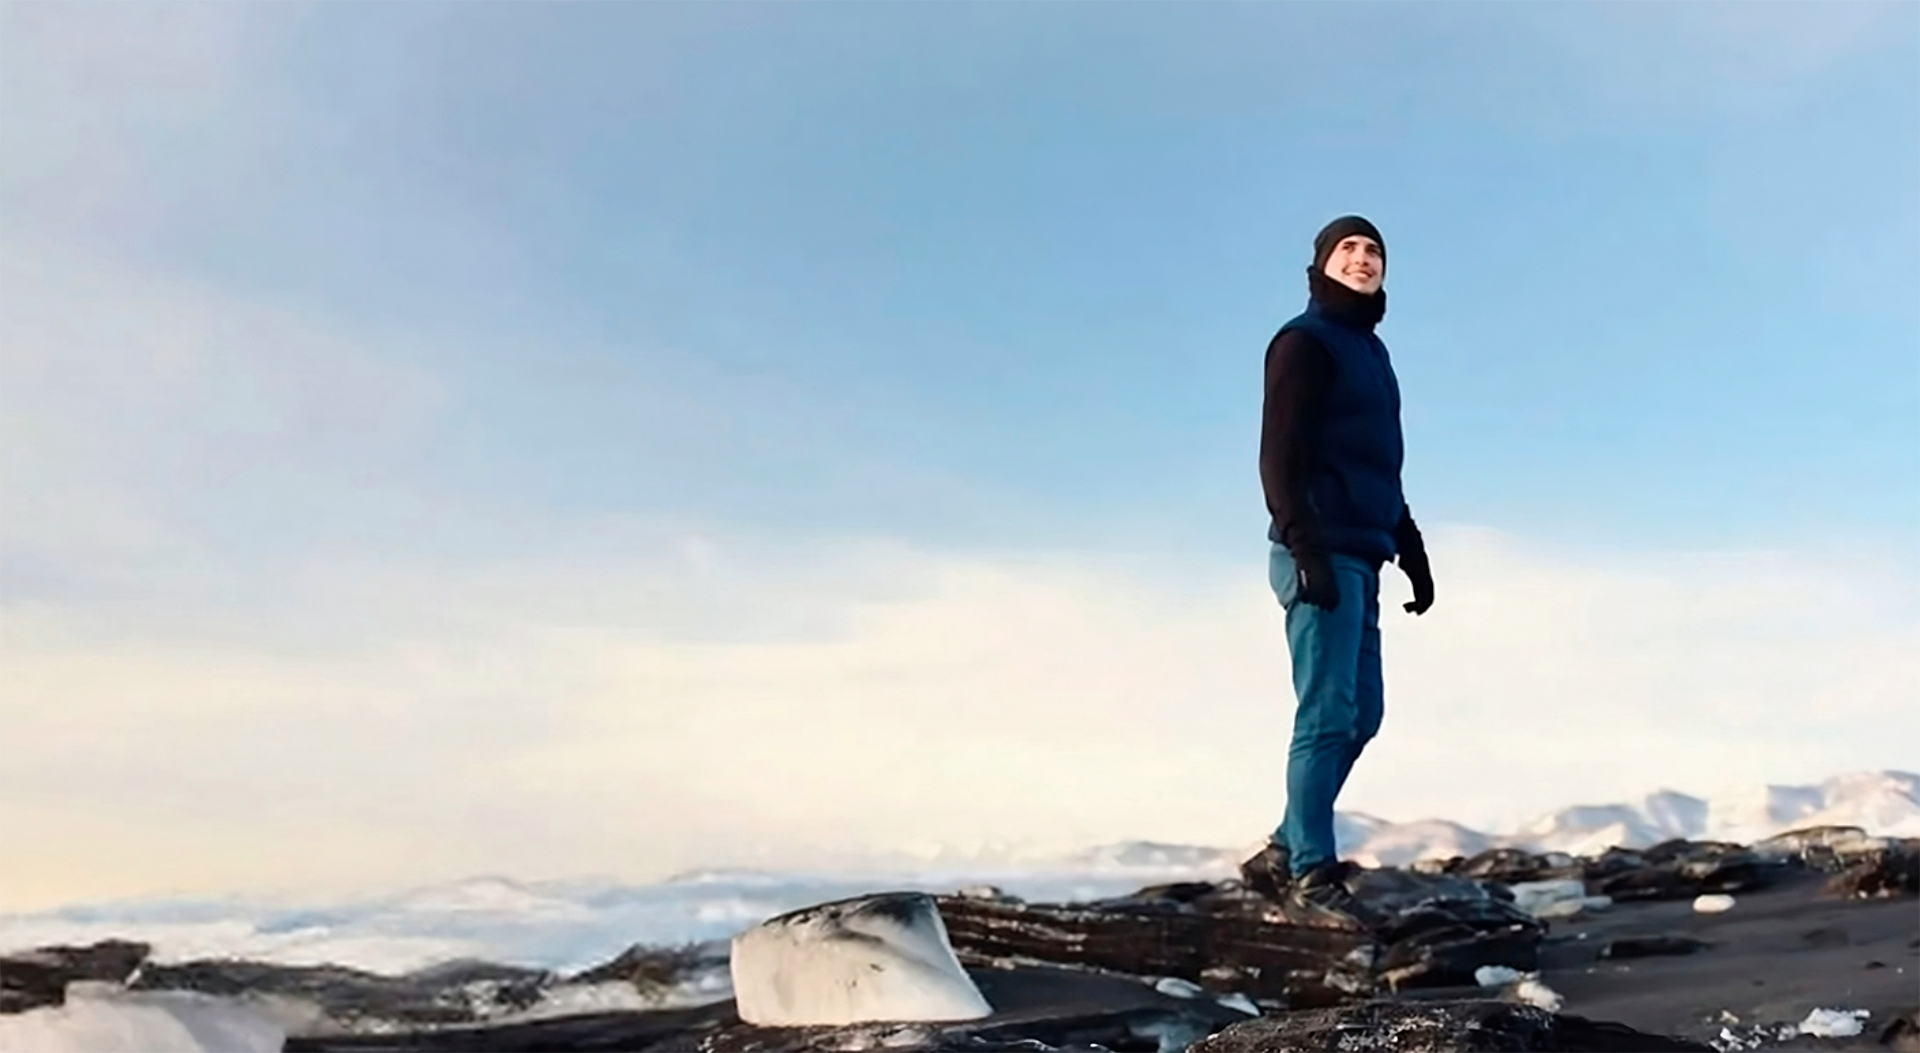
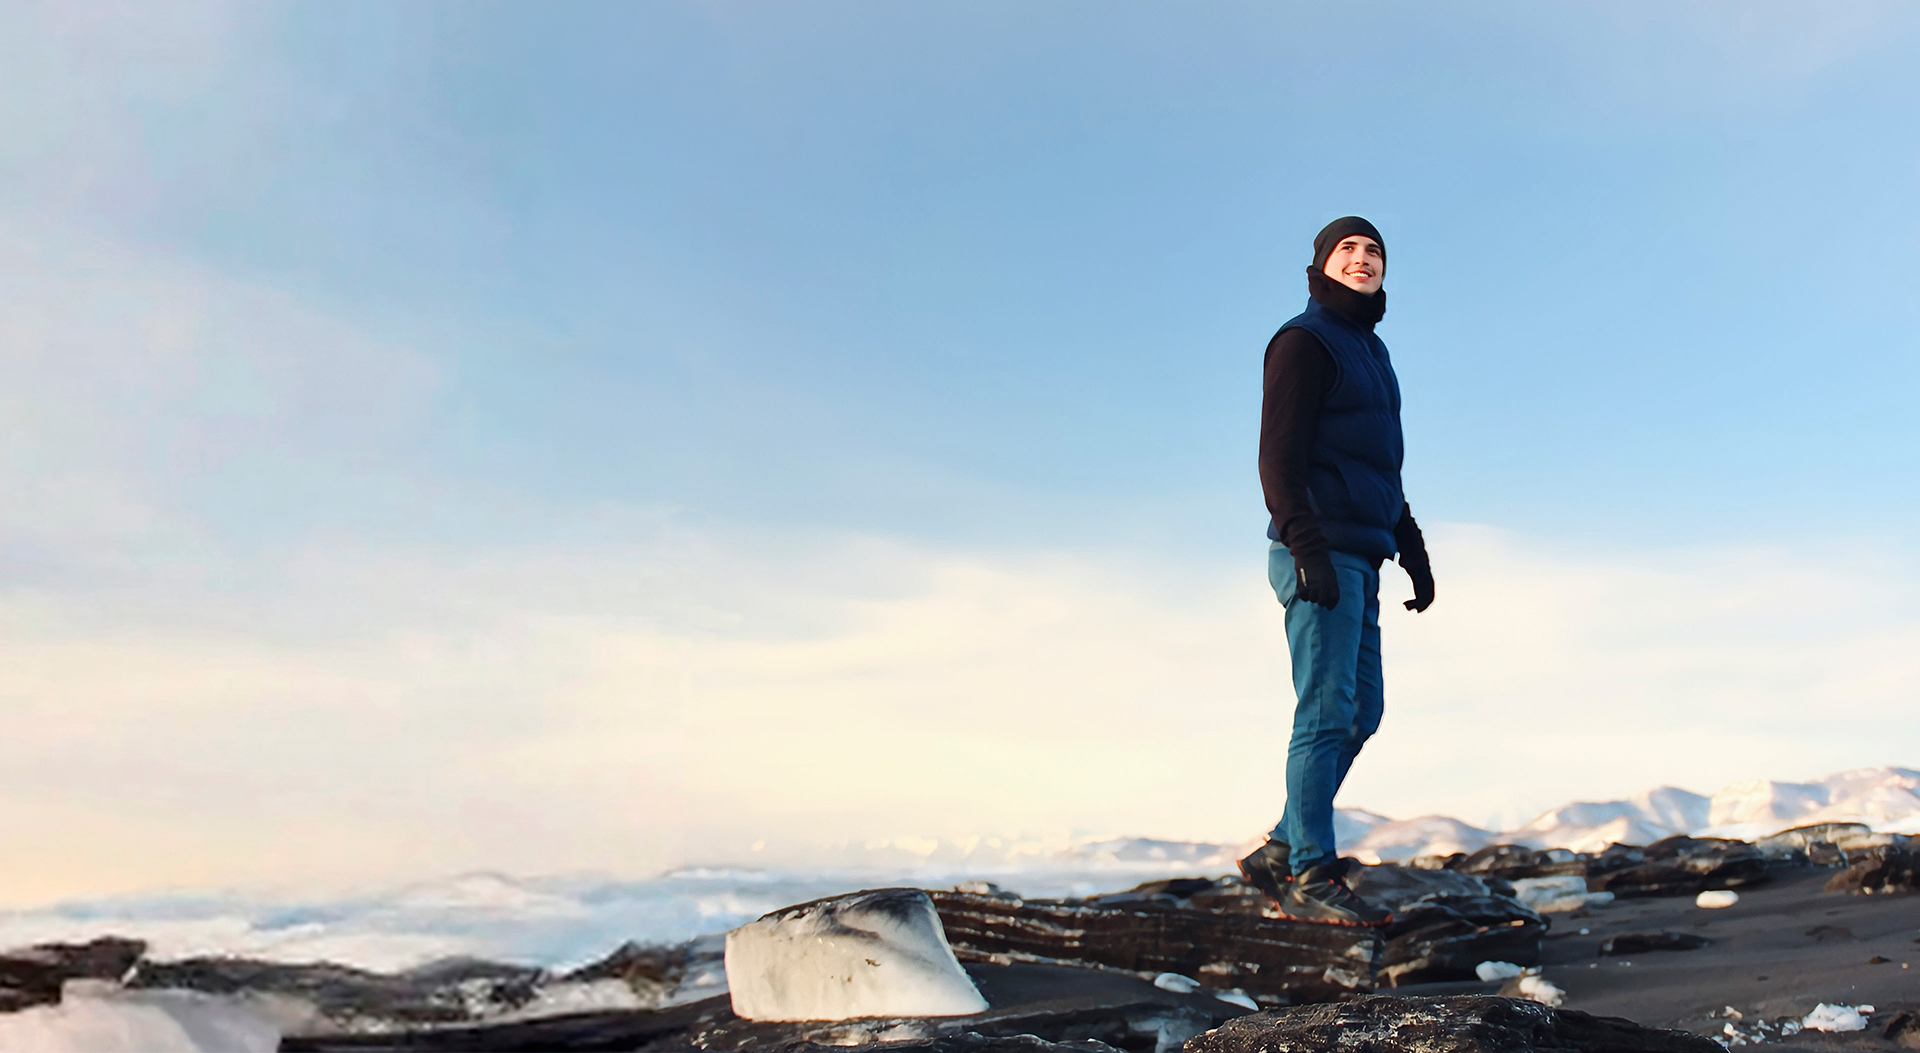
правки цифр багов, разделов опыта работы, электронного адреса, обновлено разрешение главной картинки фона

diff --git a/index.html b/index.html
@@ -117,7 +117,7 @@
                 <ul>
               
                   <li><i class="bi bi-chevron-right"></i> <strong>Образование:</strong> <span>Высшее - ИЭИ Политех</span></li>
-                  <li><i class="bi bi-chevron-right"></i> <strong>Email:</strong> <span>fon9tv@gmail.com</span></li>
+                  <li><i class="bi bi-chevron-right"></i> <strong>Email:</strong> <span>turkunovdmitrii@gmail.com</span></li>
                   <li><i class="bi bi-chevron-right"></i> <strong>Локация:</strong> <span>Санкт-Петербург, Россия</span></li>
                 </ul>
               </div>
@@ -147,7 +147,7 @@
           <div class="col-lg-3 col-md-6">
             <div class="count-box">
               <i class="bi bi-bug"></i>
-              <span data-purecounter-start="0" data-purecounter-end="1852" data-purecounter-duration="1" class="purecounter"></span>
+              <span data-purecounter-start=">0" data-purecounter-end=">300" data-purecounter-duration="1" class="purecounter"></span>
               <p>Найденных бага</p>
             </div>
           </div>
@@ -163,7 +163,7 @@
           <div class="col-lg-3 col-md-6 mt-5 mt-lg-0">
             <div class="count-box">
               <i class="bi bi-cup-hot"></i>
-              <span data-purecounter-start="0" data-purecounter-end="240" data-purecounter-duration="1" class="purecounter"></span>
+              <span data-purecounter-start=">0" data-purecounter-end=">60" data-purecounter-duration="1" class="purecounter"></span>
               <p>Часов дежурства</p>
             </div>
           </div>
@@ -227,16 +227,16 @@
             </div>
 
             <div class="progress">
-              <span class="skill">DevTools <i class="val">90%</i></span>
+              <span class="skill">DevTools <i class="val">100%</i></span>
               <div class="progress-bar-wrap">
-                <div class="progress-bar" role="progressbar" aria-valuenow="90" aria-valuemin="0" aria-valuemax="100"></div>
+                <div class="progress-bar" role="progressbar" aria-valuenow="100" aria-valuemin="0" aria-valuemax="100"></div>
               </div>
             </div>
 
             <div class="progress">
-              <span class="skill">TestIT <i class="val">55%</i></span>
+              <span class="skill">TestIT <i class="val">65%</i></span>
               <div class="progress-bar-wrap">
-                <div class="progress-bar" role="progressbar" aria-valuenow="55" aria-valuemin="0" aria-valuemax="100"></div>
+                <div class="progress-bar" role="progressbar" aria-valuenow="65" aria-valuemin="0" aria-valuemax="100"></div>
               </div>
             </div>
 
@@ -290,20 +290,6 @@
           <div class="col-lg-6">
             <h3 class="resume-title">Профессиональный опыт</h3>
             <div class="resume-item">
-              <h4>Тестировщик ПО</h4>
-              <h5>2021 - 2022</h5>
-              <p><em>FTX com, Санкт-Петербург</em></p>
-              <h5>Стек: Angular, Python, HTML, PostgreSQL, VS Code</h5>
-              <ul>
-                <li>Мануал тестирование пользовательского интерфейса (функциональные и юнит-тесты)</li>
-                <li>Изучение и логирование клиент-серверной части </li>
-                <li>Отладка багов совместно с DevOps командой удаленно и на объекте развертки</li>
-                <li>Составление основных триггеров для снифферов для оптимизации количества и приоритета отправляемых в БД данных</li>
-                <h5>••Тестирование фронт - бэк в соотношении 60-40••</h5>
-              
-              </ul>
-            </div>
-            <div class="resume-item">
               <h4>Инженер тестировщик технического отдела</h4>
               <h5>2022 - 2024</h5>
               <p><em>Hormann Russia, Санкт-Петербург</em></p>
@@ -314,6 +300,20 @@
                 <li>Взаимодействие с интеграционными командами, организация процессов тестирования</li>
                 <li>Проводил обучение новых членов команды саппорта, что помогло им быстрее внедриться в процесс работы и повысило производительность</li>
                 <h5>••Тестирование фронт - бэк - мобилки в соотношении 40-20-40••</h5>
+            
+              </ul>
+            </div>
+            <div class="resume-item">
+              <h4>Тестировщик ПО</h4>
+              <h5>2021 - 2022</h5>
+              <p><em>FTX com, Санкт-Петербург</em></p>
+              <h5>Стек: Angular, Python, HTML, PostgreSQL, VS Code</h5>
+              <ul>
+                <li>Мануал тестирование пользовательского интерфейса (функциональные и юнит-тесты)</li>
+                <li>Изучение и логирование клиент-серверной части </li>
+                <li>Отладка багов совместно с DevOps командой удаленно и на объекте развертки</li>
+                <li>Составление основных триггеров для снифферов для оптимизации количества и приоритета отправляемых в БД данных</li>
+                <h5>••Тестирование фронт - бэк в соотношении 60-40••</h5>
               </ul>
             </div>
           </div>
